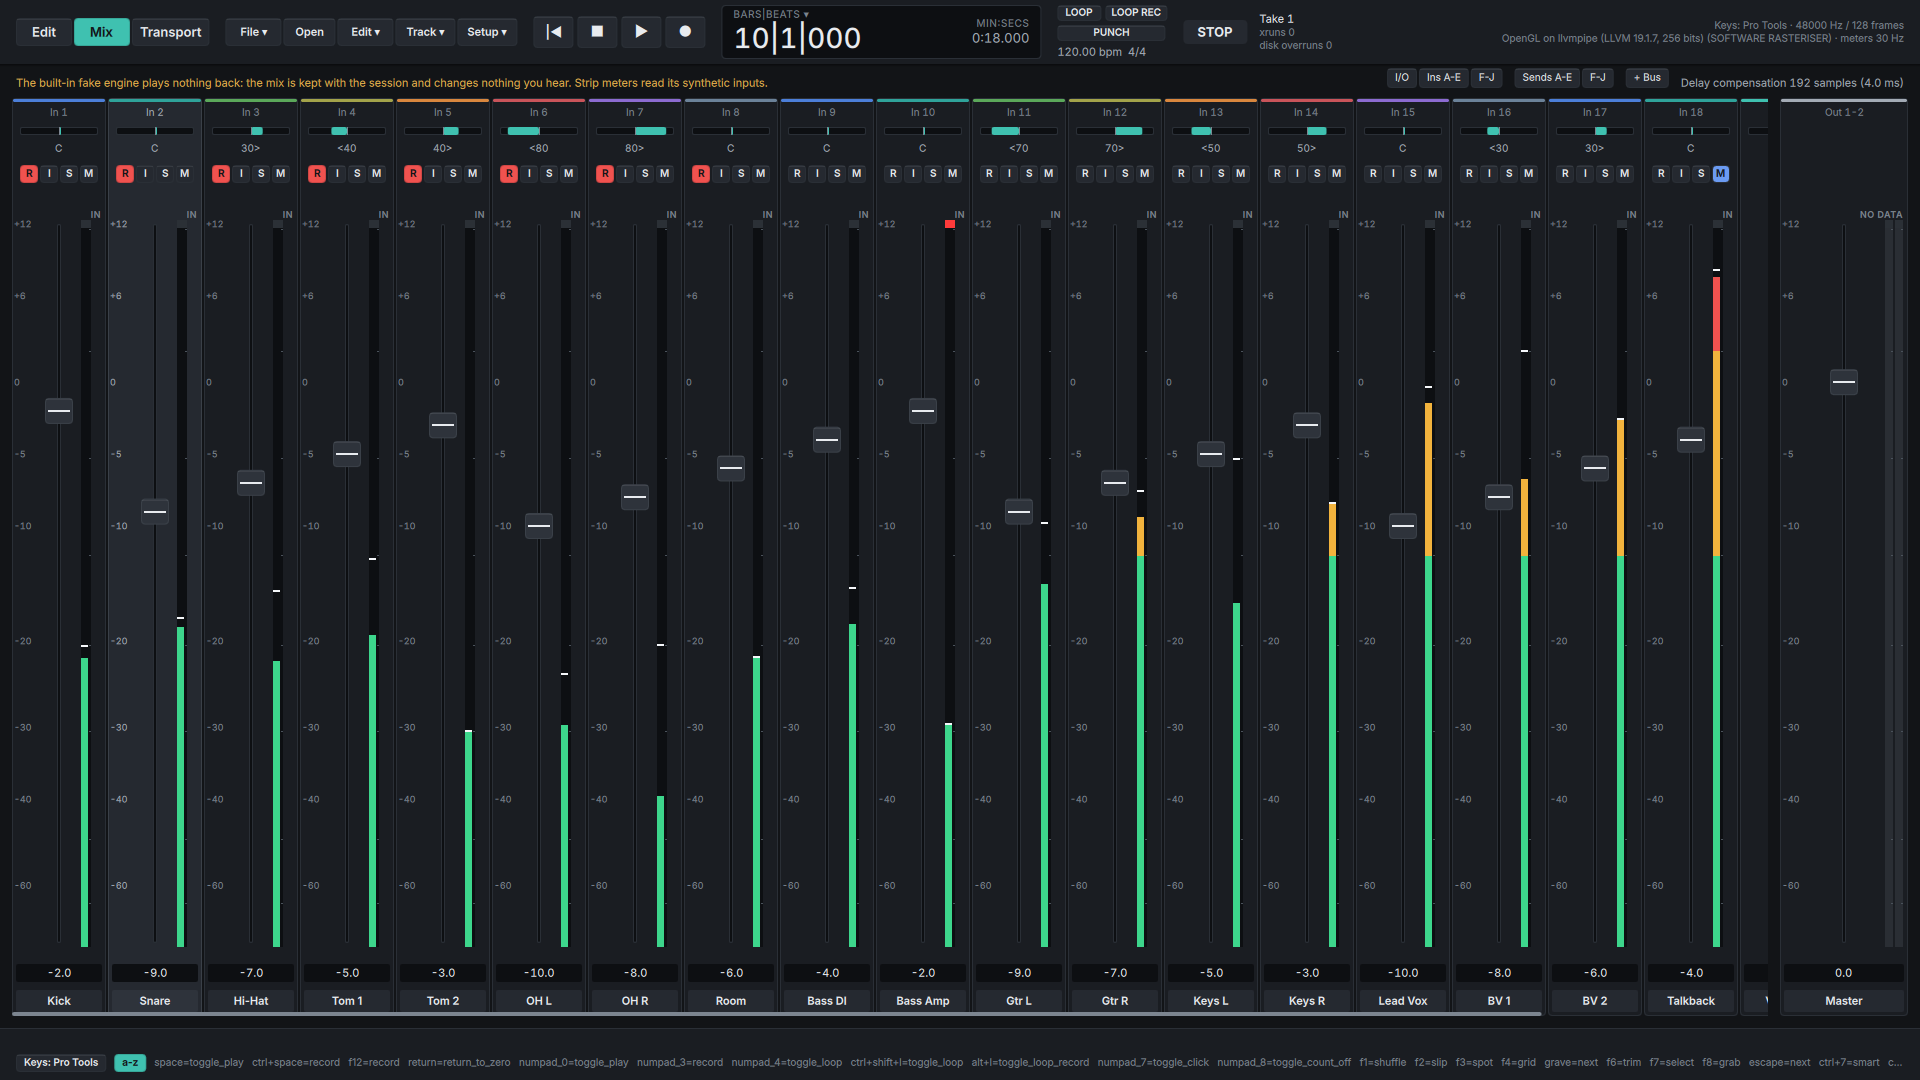
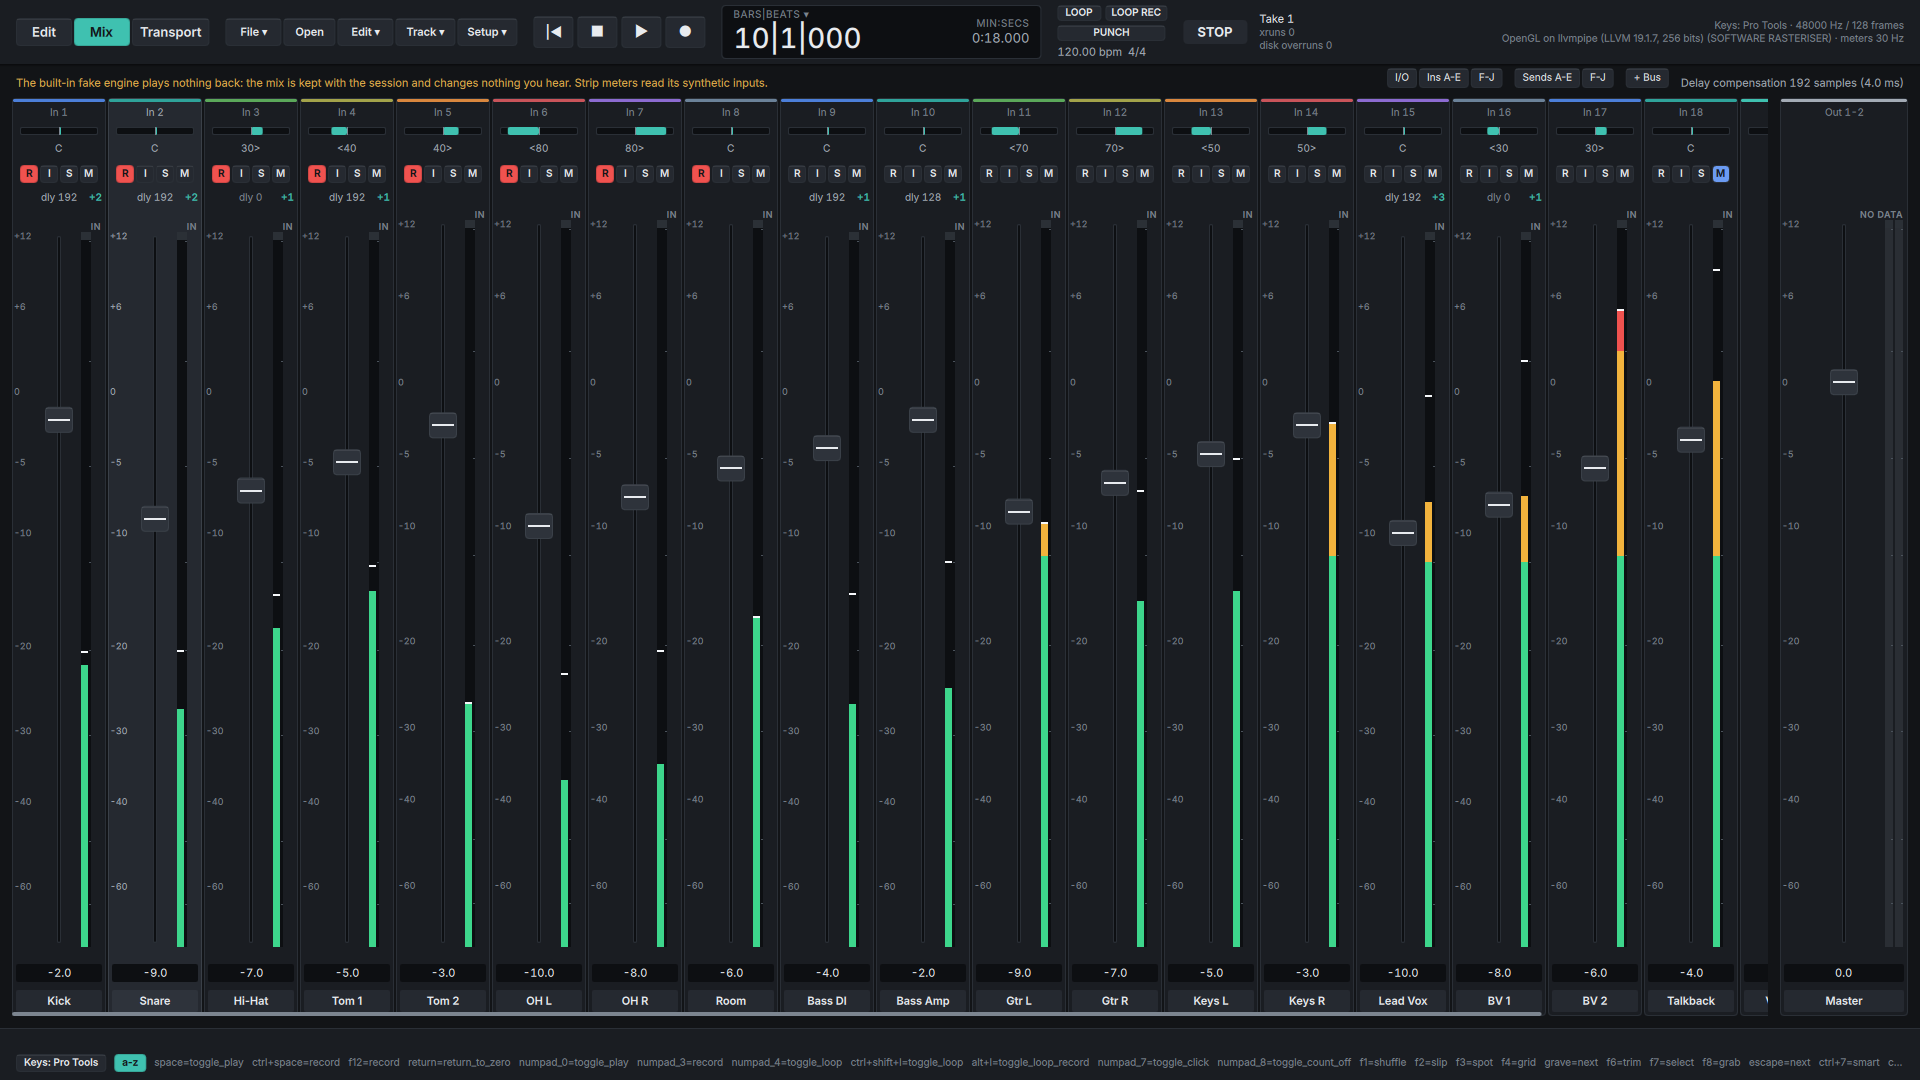
Mix strip: show the +N hidden-plugin chip with both insert banks collapsed

diff --git a/ui/qt/qml/ChannelStrip.qml b/ui/qt/qml/ChannelStrip.qml
@@ -90,7 +90,9 @@ Rectangle {
                                  - faderFloor - (Theme.space3 + Theme.space2)
                                  - outputRow - (18 + Theme.space2 + 22 + Theme.space1)
     readonly property real sendsHeight: sendsFull
+    // Both banks collapsed with a plugin in one: the area is only the "+N" chip's row.
     readonly property real insertsHeight: inserts === null ? 0
+        : insertCount === 0 ? (hiddenInserts > 0 ? 12 : 0)
         : Math.min(insertsFull, Math.max(minSection, room - sendsHeight))
     readonly property alias insertFrame: insertFrame
     // Plugins in a collapsed insert bank, said on the strip ("+N").
@@ -238,7 +240,7 @@ Rectangle {
                   leftMargin: Theme.space1; rightMargin: Theme.space1 }
         // The same on the bus (no inserts), which keeps its fader level with the tracks'.
         height: strip.insertsHeight
-        visible: strip.inserts !== null && strip.insertCount > 0
+        visible: strip.inserts !== null && (strip.insertCount > 0 || strip.hiddenInserts > 0)
 
         ScrollFrame {
             id: insertFrame

diff --git a/ui/qt/tests/test_inserts.cpp b/ui/qt/tests/test_inserts.cpp
@@ -566,6 +566,20 @@ int qml() {
     CHECK(a != nullptr && a->property("present").toBool());
     CHECK(named(root, QStringLiteral("compensation")) != nullptr);
 
+    // A plugin in a collapsed bank says so on the strip ("+N"), even with
+    // both banks collapsed; with nothing hidden there is no chip.
+    QQuickItem* chip = named(root, QStringLiteral("insertsMore0"));
+    CHECK(chip != nullptr && !chip->isVisible());
+    r.mixer.setShowInsertsFJ(false);
+    r.mixer.setShowInsertsAE(false);
+    QTest::qWait(30);
+    CHECK(chip->isVisible() && chip->property("text").toString() == QStringLiteral("+1"));
+    CHECK(named(root, QStringLiteral("insertsMore2")) != nullptr
+          && !named(root, QStringLiteral("insertsMore2"))->isVisible());
+    r.mixer.setShowInsertsAE(true);
+    QTest::qWait(30);
+    CHECK(!chip->isVisible());
+
     // A click on an empty slot opens the chooser, and its search field has
     // the keyboard: "s" types, it does not solo a track.
     QQuickItem* empty = named(root, QStringLiteral("insert_1_2"));

diff --git a/planning/BACKLOG.md b/planning/BACKLOG.md
@@ -468,6 +468,7 @@ playback can follow edits; it is in flight.
 
 Against `common/model` and `FakeEngine` now; wired to M4 when it lands.
 
+- [ ] ui.mixer.views: label the insert bank toggle "Ins F-J" so it is not confused with the sends' "F-J" in the Mix header.
 - [ ] Marker added while playing takes the engine-side playhead timestamp, not the last UI tick (it can be off by tens of ms).
 - [ ] Memory Locations length column uses the main counter format, not always min:sec.
 - [ ] `ui.mixer.sends` follow-ups (ADR-0022):
